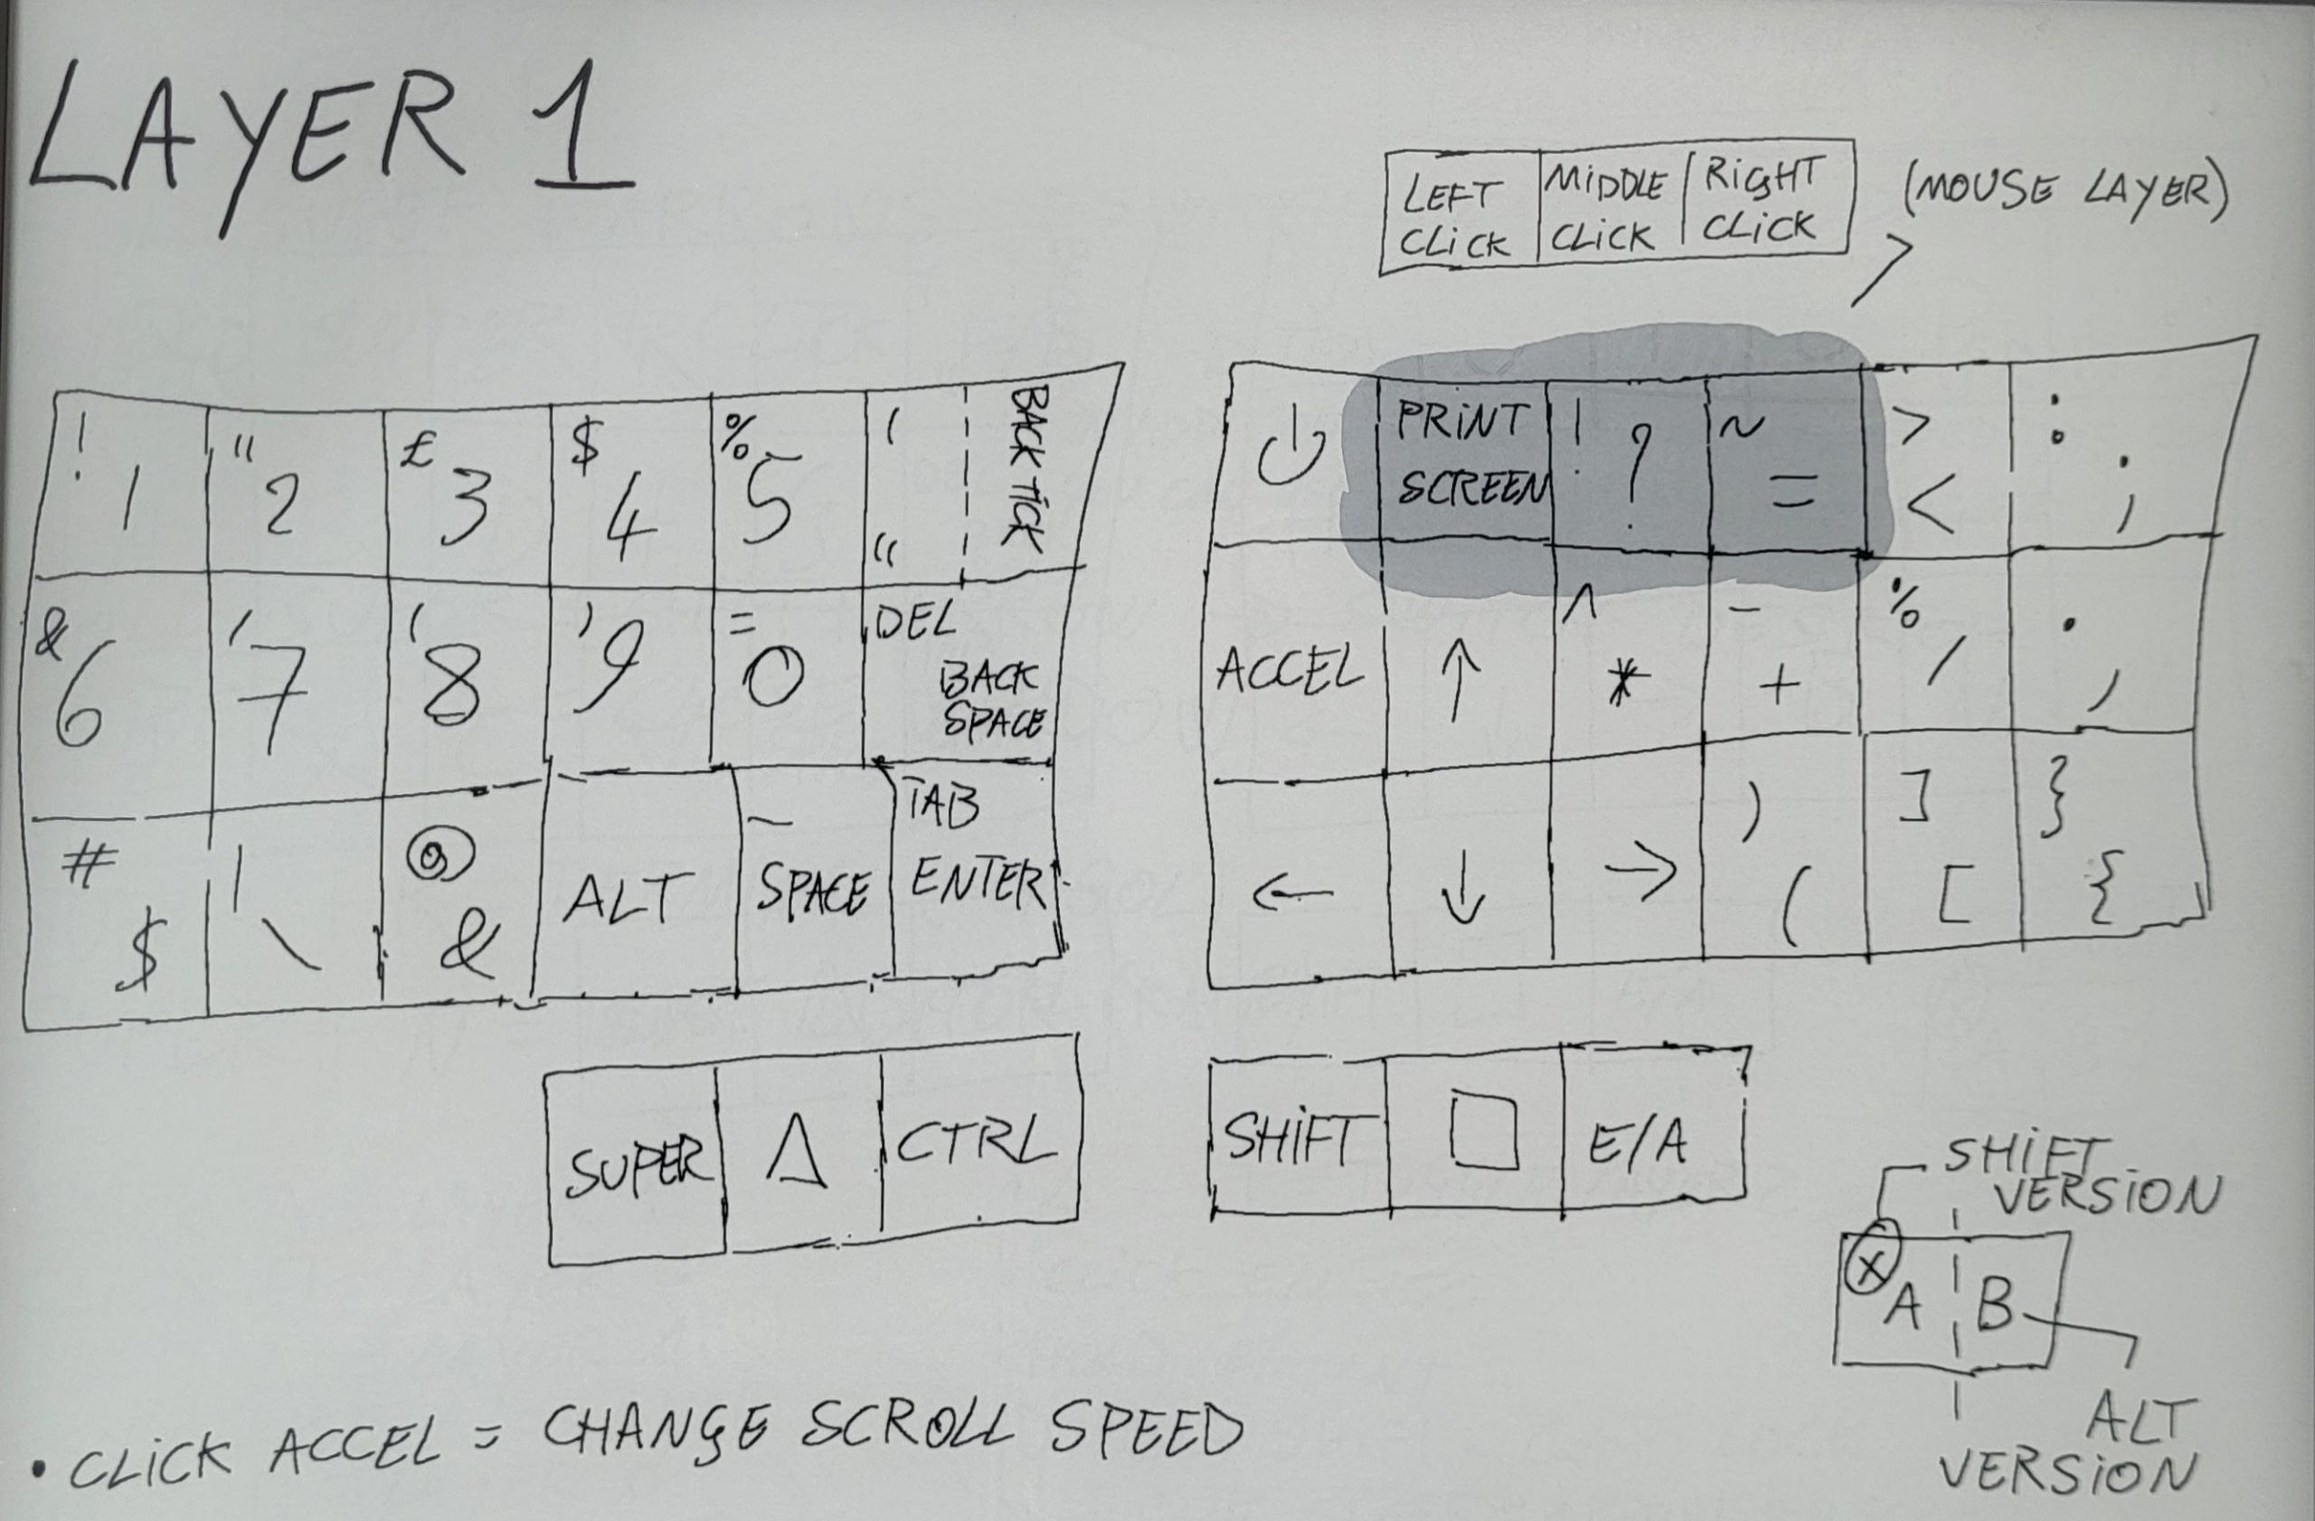
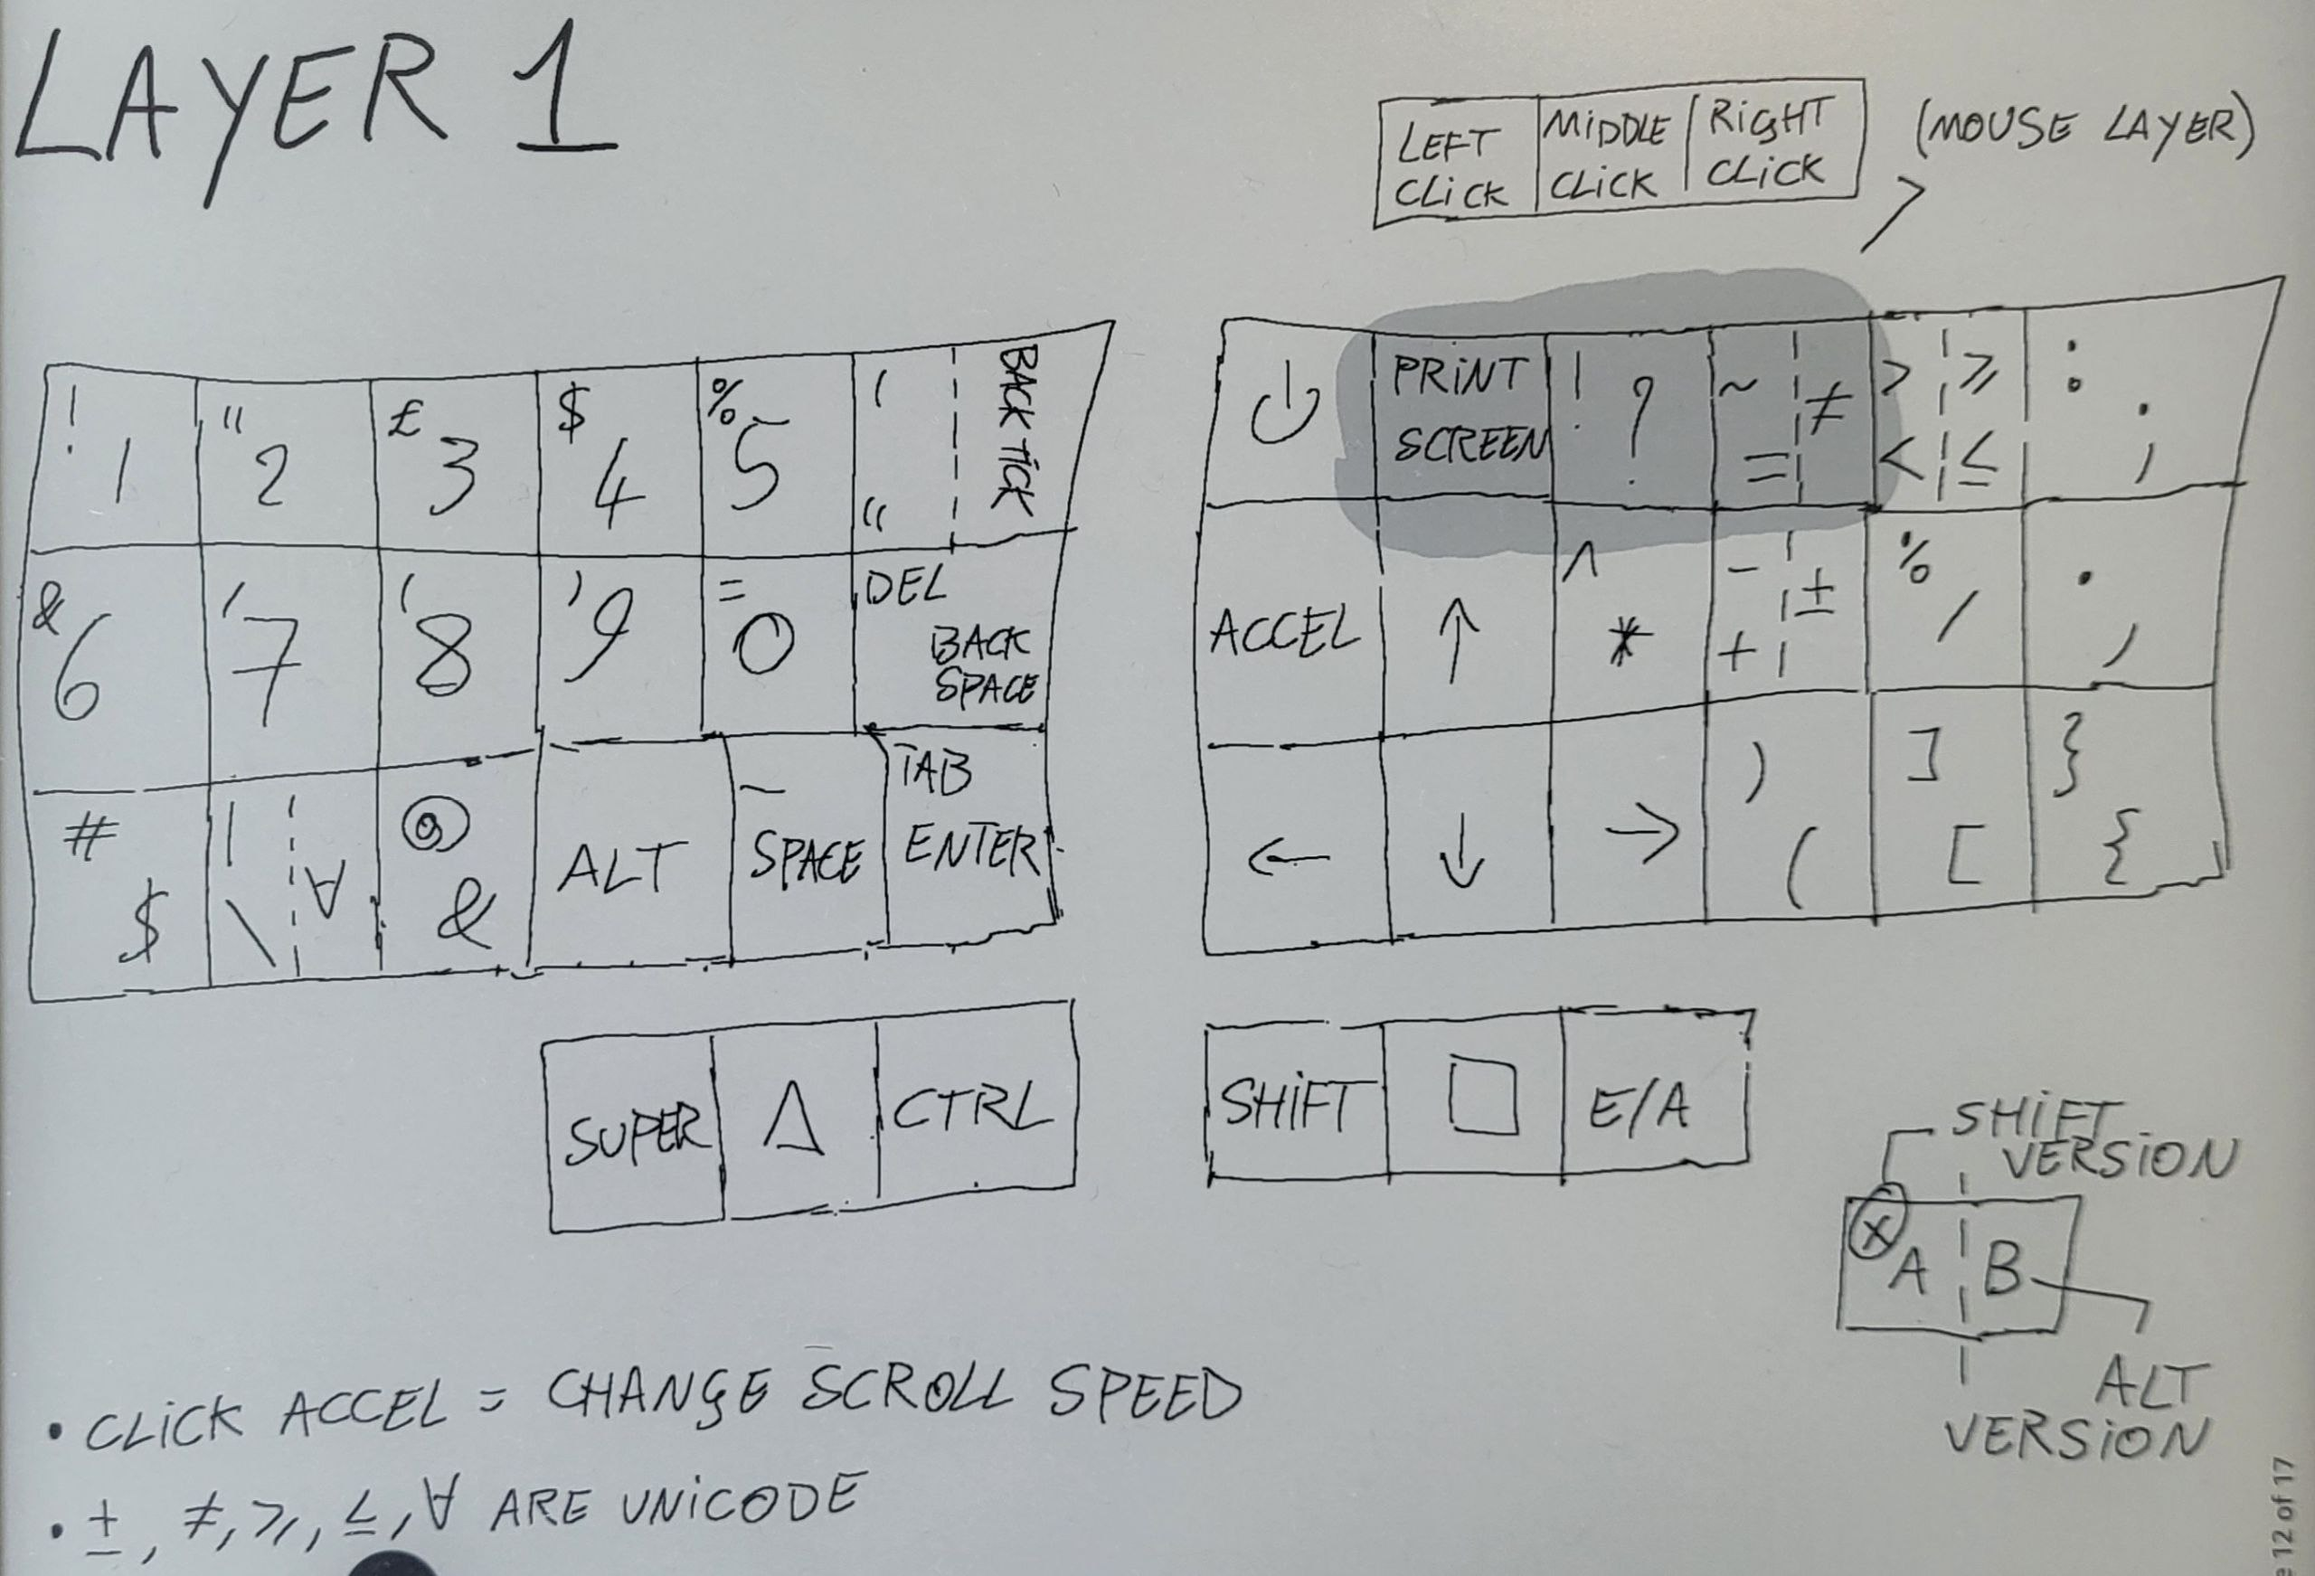
updated user files

diff --git a/Elil_50/keymap.c b/Elil_50/keymap.c
@@ -22,15 +22,12 @@ along with this program.  If not, see <http://www.gnu.org/licenses/>.
 
 #define MY_LESS S(KC_COMM)
 #define MY_GREAT S(KC_DOT)
-
 #define LEFT_TOGGLE LT(1, KC_Q)
 #define RIGHT_TOGGLE LT(1, KC_NO)
-
 #define ESC_ALT MT(MOD_LALT, KC_ESC)
 
-#define MY_MAX_LAYER 6
-
-#define MY_UNICODE_ENABLE 0  // manually turn on stuff in rules and config
+// #define MY_UNICODE_ENABLE 1  // it's in config
+#define MY_MAX_LAYER 7
 
 
 
@@ -160,11 +157,13 @@ enum unicode_name {
     LCHI,
     LPSI,
     LOMEG,
+    FSIGM,
   
     LTEQ,
     GTEQ,
     NOTEQ,
     PLMIN,
+    FORALL,
 };
 
 
@@ -219,14 +218,44 @@ const uint32_t unicode_map[] PROGMEM = {
     [LCHI] = 0x03C7,
     [LPSI] = 0x03C8,
     [LOMEG] = 0x03C9,
+
+    [FSIGM] = 0x03C2,
   
     // other
     [LTEQ] = 0x2264, // less than or equal
     [GTEQ] = 0x2265, // greater than or equal
     [NOTEQ] = 0x2260, // not equal
     [PLMIN] = 0xB1, // plus minus
+    [FORALL] = 0x2200, // plus minus
 };
+
+#define ALPH UP(LALPH,UALPH)
+#define BETA UP(LBETA,UBETA)
+#define GAMM UP(LGAMM,UGAMM)
+#define DELT UP(LDELT,UDELT)
+#define EPSI UP(LEPSI,UEPSI)
+#define ZETA UP(LZETA,UZETA)
+#define ETA UP(LETA,UETA)
+#define THET UP(LTHET,UTHET)
+#define IOTA UP(LIOTA,UIOTA)
+#define KAPP UP(LKAPP,UKAPP)
+#define LAMB UP(LLAMB,ULAMB)
+#define MU UP(LMU,UMU)
+#define NU UP(LNU,UNU)
+#define XI UP(LXI,UXI)
+#define OMIC UP(LOMIC,UOMIC)
+#define PI UP(LPI,UPI)
+#define RHO UP(LRHO,URHO)
+#define SIGM UP(LSIGM,USIGM)
+#define TAU UP(LTAU,UTAU)
+#define UPSIL UP(LUPSI,UUSPI)
+#define PHI UP(LPHI,UPHI)
+#define CHI UP(LCHI,UCHI)
+#define PSI UP(LPSI,UPSI)
+#define OMEG UP(LOMEG,UOMEG)
+
 #endif
+
 
 
 //    %--------------%
@@ -254,6 +283,39 @@ tap_dance_action_t tap_dance_actions[] = {
 //    |   OVERRIDES   |
 //    %---------------%
 
+#if MY_UNICODE_ENABLE
+static bool send_unicode(bool activated, void *context) {
+    if (activated) {
+        uint32_t code = (uintptr_t)context;  // store UM(x) as integer in context
+        register_unicodemap(unicodemap_index(code));
+    }
+    return false;
+}
+
+#define MAKE_OVERRIDE(mods, trig, action, ctx) \
+(const key_override_t){ \
+    .trigger_mods = mods, \
+    .layers = ~0, \
+    .suppressed_mods = mods, \
+    .options = ko_options_default, \
+    .negative_mod_mask = 0, \
+    .custom_action = action, \
+    .context = (void*)(uintptr_t)(ctx), \
+    .trigger = trig, \
+    .replacement = KC_NO, \
+    .enabled = NULL, \
+}
+
+#define MAKE_UNICODE_OVERRIDE(mods, trig, unicode) \
+    MAKE_OVERRIDE(mods, trig, send_unicode, (unicode))
+
+const key_override_t my_overrides_1 = MAKE_UNICODE_OVERRIDE(MOD_MASK_ALT, MY_LESS, UM(LTEQ));
+const key_override_t my_overrides_2 = MAKE_UNICODE_OVERRIDE(MOD_MASK_SA, MY_LESS, UM(GTEQ));
+const key_override_t my_overrides_3 = MAKE_UNICODE_OVERRIDE(MOD_MASK_ALT, KC_EQL, UM(NOTEQ));
+const key_override_t my_overrides_4 = MAKE_UNICODE_OVERRIDE(MOD_MASK_ALT, KC_PPLS, UM(PLMIN));
+const key_override_t my_overrides_5 = MAKE_UNICODE_OVERRIDE(MOD_MASK_ALT, KC_BSLS, UM(FORALL));
+#endif
+
 const key_override_t override_1 = ko_make_basic(MOD_MASK_SHIFT, KC_LPRN, KC_RPRN);
 const key_override_t override_2 = ko_make_basic(MOD_MASK_SHIFT, KC_LBRC, KC_RBRC);
 const key_override_t override_3 = ko_make_basic(MOD_MASK_SHIFT, KC_LCBR, KC_RCBR);
@@ -272,12 +334,6 @@ const key_override_t override_23 = ko_make_basic(MOD_MASK_SHIFT, KC_BSPC, KC_DEL
 const key_override_t override_24 = ko_make_basic(MOD_MASK_SHIFT, KC_AMPR, KC_AT);
 const key_override_t override_25 = ko_make_basic(MOD_MASK_SHIFT, KC_QUES, KC_EXLM);
 const key_override_t override_26 = ko_make_basic(MOD_MASK_SHIFT, KC_DLR, KC_HASH);
-#if MY_UNICODE_ENABLE
-const key_override_t override_27 = ko_make_basic(MOD_MASK_ALT, MY_LESS, UM(LTEQ));
-const key_override_t override_28 = ko_make_basic(MOD_MASK_SA, MY_LESS, UM(GTEQ));
-const key_override_t override_29 = ko_make_basic(MOD_MASK_ALT, KC_EQL, UM(NOTEQ));
-const key_override_t override_30 = ko_make_basic(MOD_MASK_ALT, KC_PPLS, UM(PLMIN));
-#endif
 
 const key_override_t *key_overrides[] = {
   &override_1,
@@ -299,10 +355,11 @@ const key_override_t *key_overrides[] = {
   &override_25,
   &override_26,
   #if MY_UNICODE_ENABLE
-  &override_27,
-  &override_28,
-  &override_29,
-  &override_30,
+  &my_overrides_1,
+  &my_overrides_2,
+  &my_overrides_3,
+  &my_overrides_4,
+  &my_overrides_5,
   #endif
   NULL
 };
@@ -337,6 +394,7 @@ const uint16_t PROGMEM combo35[] = {TD(TD_SHIFT_CAPS), KC_DLR, COMBO_END};
 const uint16_t PROGMEM combo36[] = {ESC_ALT, MY_LESS, COMBO_END};
 const uint16_t PROGMEM combo37[] = {ESC_ALT, KC_EQL, COMBO_END};
 const uint16_t PROGMEM combo38[] = {ESC_ALT, KC_PPLS, COMBO_END};
+const uint16_t PROGMEM combo40[] = {ESC_ALT, KC_BSLS, COMBO_END};
 const uint16_t PROGMEM combo39[] = {TD(TD_SHIFT_CAPS), ESC_ALT, MY_LESS, COMBO_END};
 #endif 
 
@@ -365,38 +423,10 @@ combo_t key_combos[] = {
   COMBO(combo36, UM(LTEQ)),
   COMBO(combo37, UM(NOTEQ)),
   COMBO(combo38, UM(PLMIN)),
+  COMBO(combo40, UM(FORALL)),
   COMBO(combo39, UM(GTEQ)),
   #endif
 };
-
-
-//saving general syntax for pressing and holding key
-/*
-if (record->event.pressed) {
-        if (record->tap.count) {
-            //default_layer_set(1 << 0);
-            layer_off(1);
-        } else {
-            //register_mods(MOD_BIT(KC_LSFT));
-            layer_off(1);
-        }
-    } else {
-        if (!record->tap.count) {
-            //unregister_mods(MOD_BIT(KC_LSFT));
-            layer_on(1);
-        }
-    }
-    return false;
-    break;
-*/
-/*
-if (record->tap.count && record->event.pressed) {
-	//default_layer_set(1 << 1);
-	layer_on(1);
-	return false;
-}
-break;
-*/
 
 
 
@@ -485,8 +515,22 @@ void ps2_mouse_moved_user(report_mouse_t *mouse_report) {
     token = defer_exec(TURN_LAYER_OFF_TIMEOUT, turn_off, (void *)MOUSE_BUTTONS_LAYER);
 }
 
-const uint16_t PROGMEM keymaps[][MATRIX_ROWS][MATRIX_COLS] = { //alphabetic
-    [0] = LAYOUT_split_3x6_3(
+
+
+//    %---------------------%
+//    |   KEYBOARD LAYERS   |
+//    %---------------------%
+
+#if MY_UNICODE_ENABLE 
+    #define GREEK_LAYER TG(3)
+    #define ADD_LAYER 4
+#else 
+    #define GREEK_LAYER XXXXXXX
+    #define ADD_LAYER 3
+#endif
+
+const uint16_t PROGMEM keymaps[][MATRIX_ROWS][MATRIX_COLS] = {
+    [0] = LAYOUT_split_3x6_3( //alphabetic
   //,-----------------------------------------------------.                    ,-----------------------------------------------------.
       KC_Q,    KC_W,    KC_E,    KC_R,    KC_T,   KC_DQT ,                        KC_Y,    KC_U,    KC_I,    KC_O,   KC_P,  KC_SCLN,
   //|--------+--------+--------+--------+--------+--------|                    |--------+--------+--------+--------+--------+--------|
@@ -511,17 +555,31 @@ const uint16_t PROGMEM keymaps[][MATRIX_ROWS][MATRIX_COLS] = { //alphabetic
                                       //`--------------------------'  `--------------------------'
   ),
 
-     [2] = LAYOUT_split_3x6_3( //stuff
+    [2] = LAYOUT_split_3x6_3( //stuff
     //,-----------------------------------------------------.                    ,-----------------------------------------------------.
          KC_F1,   KC_F2,   KC_F3,   KC_F4,   KC_F5,  KC_TAB  ,                     UG_TOGG,  KC_PSCR, KC_MUTE, KC_VOLU, KC_MPLY,  EE_CLR,
     //|--------+--------+--------+--------+--------+--------|                    |--------+--------+--------+--------+--------+--------|
-        KC_F6,    KC_F7,   KC_F8,   KC_F9,   KC_F10,   KC_BSPC,                     ACCEL,  KC_UP,  XXXXXXX, XXXXXXX, XXXXXXX, XXXXXXX,
+        KC_F6,    KC_F7,   KC_F8,   KC_F9,   KC_F10,   KC_BSPC,                    ACCEL,  KC_UP, GREEK_LAYER, XXXXXXX,XXXXXXX, XXXXXXX,
     //|--------+--------+--------+--------+--------+--------|                    |--------+--------+--------+--------+--------+--------|
-      KC_F11, KC_F12,  KC_RALT, KC_LALT, KC_SPC,  KC_ENTER,            		 KC_LEFT, KC_DOWN, KC_RIGHT, TG(5), TG(4), TG(3),
+      KC_F11, KC_F12,  KC_RALT, KC_LALT, KC_SPC,  KC_ENTER,            		   KC_LEFT, KC_DOWN, KC_RIGHT, XXXXXXX, TG(ADD_LAYER+1), TG(ADD_LAYER),
     //|--------+--------+--------+--------+--------+--------+--------|  |--------+--------+--------+--------+--------+--------+--------|
                                   TD(META_TO6),  LEFT_TOGGLE, KC_LCTL, 	TD(TD_SHIFT_CAPS),  RIGHT_TOGGLE,  ESC_ALT
                                         //`--------------------------'  `--------------------------'
   ),
+
+  #if MY_UNICODE_ENABLE
+    [3] = LAYOUT_split_3x6_3( //greek
+    //,-----------------------------------------------------.                    ,-----------------------------------------------------.
+        XXXXXXX,   FSIGM,   EPSI,   RHO,   TAU,  KC_DQT  ,                        UPSI,    THET,    IOTA,    OMIC,    PI,    KC_SCLN,
+    //|--------+--------+--------+--------+--------+--------|                    |--------+--------+--------+--------+--------+--------|
+         ALPH,    SIGM,    DELT,    PHI,     GAMM,  KC_BSPC,                        ETA,     KC_UP,     XI,    KAPP,   LAMB,   KC_COMMA,
+    //|--------+--------+--------+--------+--------+--------|                    |--------+--------+--------+--------+--------+--------|
+         ZETA,    CHI,     PSI,     OMEG,   KC_SPC,  KC_ENTER,            		  KC_LEFT,  KC_DOWN, KC_RIGHT, BETA,    NU,        MU,
+    //|--------+--------+--------+--------+--------+--------+--------|  |--------+--------+--------+--------+--------+--------+--------|
+                                  TD(META_TO6),  LEFT_TOGGLE, KC_LCTL, 	TD(TD_SHIFT_CAPS),  RIGHT_TOGGLE,  ESC_ALT
+                                        //`--------------------------'  `--------------------------'
+  ),
+  #endif
 
 
 
@@ -529,7 +587,7 @@ const uint16_t PROGMEM keymaps[][MATRIX_ROWS][MATRIX_COLS] = { //alphabetic
 
 
   
-     [3] = LAYOUT_split_3x6_3( //vr_chat
+    [ADD_LAYER] = LAYOUT_split_3x6_3( //vr_chat
       //,-----------------------------------------------------.                    ,-----------------------------------------------------.
          KC_F12,  XXXXXXX, KC_E,   KC_W,   KC_R,   KC_C ,                    S(KC_F1), S(KC_F2), S(KC_F3), S(KC_F4), S(KC_F5), S(KC_F6),
       //|--------+--------+--------+--------+--------+--------|                    |--------+--------+--------+--------+--------+--------|
@@ -541,7 +599,7 @@ const uint16_t PROGMEM keymaps[][MATRIX_ROWS][MATRIX_COLS] = { //alphabetic
                                           //`--------------------------'  `--------------------------'
   ),
 
-  [4] = LAYOUT_split_3x6_3( //minecraft
+    [ADD_LAYER+1] = LAYOUT_split_3x6_3( //minecraft
       //,-----------------------------------------------------.                    ,-----------------------------------------------------.
          KC_M, KC_B, KC_E,  KC_W,   KC_F5,   KC_F1 ,                          KC_1,     KC_2,    KC_3,   KC_4,     KC_5,    KC_6,
       //|--------+--------+--------+--------+--------+--------|                    |--------+--------+--------+--------+--------+--------|

diff --git a/Elil_50/config.h b/Elil_50/config.h
@@ -31,6 +31,7 @@ along with this program.  If not, see <http://www.gnu.org/licenses/>.
 #define MK_W_OFFSET_0 2
 #define MK_W_OFFSET_1 15
 
-// #define UNICODE_SELECTED_MODES UNICODE_MODE_LINUX, UNICODE_MODE_MACOS, UNICODE_MODE_WINCOMPOSE
-// #define OS_DETECTION_SINGLE_REPORT
-
+#if MY_UNICODE_ENABLE
+    #define UNICODE_SELECTED_MODES UNICODE_MODE_LINUX, UNICODE_MODE_MACOS, UNICODE_MODE_WINCOMPOSE
+    #define OS_DETECTION_SINGLE_REPORT
+#endif
